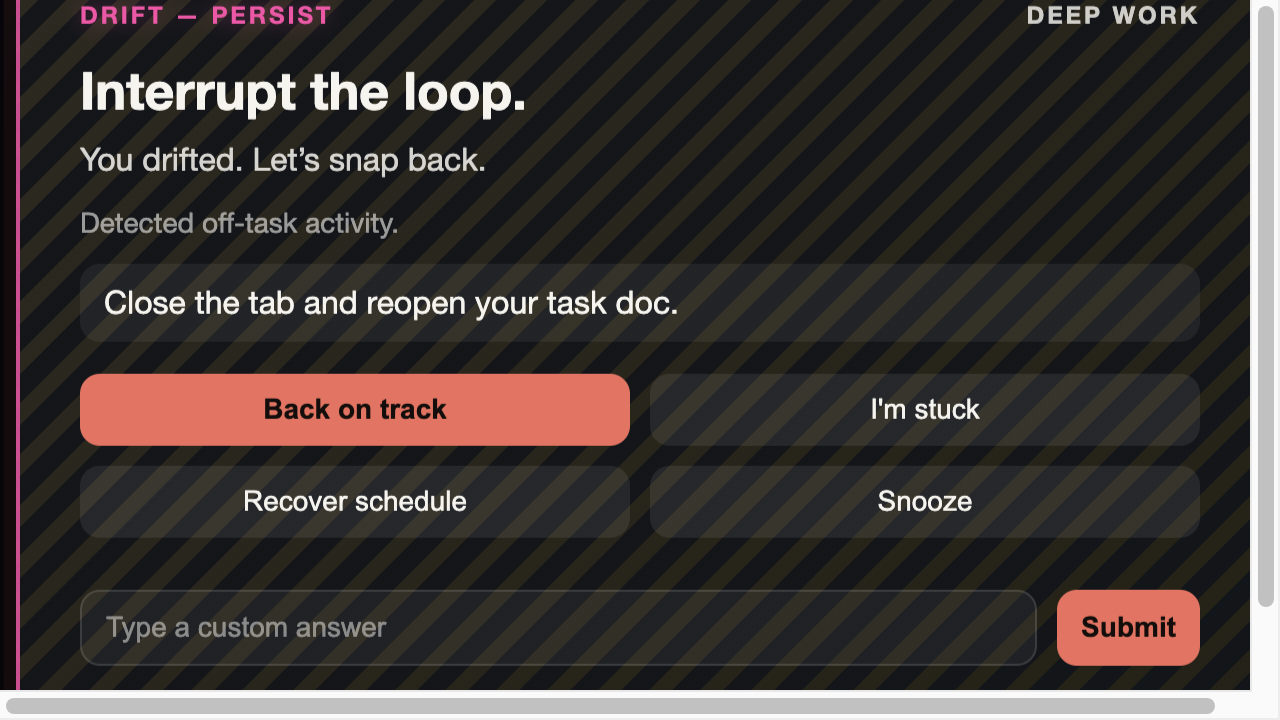
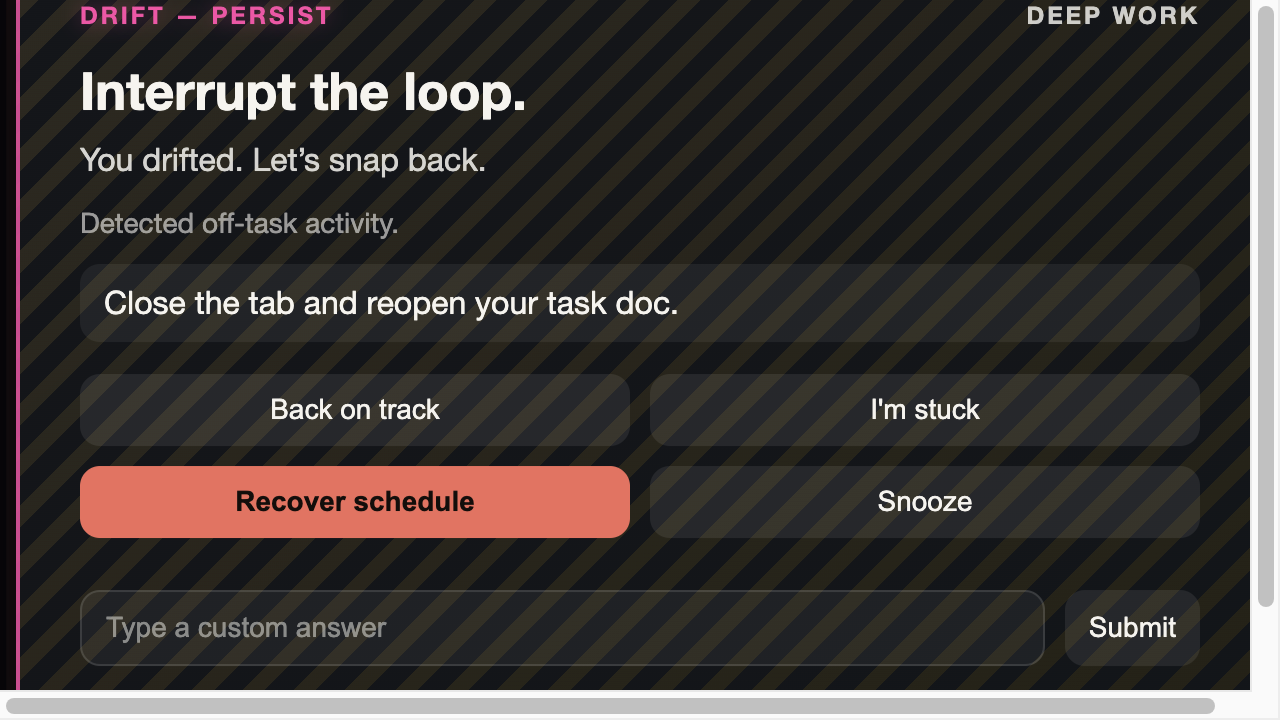
Overlay: make Recover primary on DRIFT_PERSIST

diff --git a/overlay/overlay-utils.test.js b/overlay/overlay-utils.test.js
@@ -8,7 +8,8 @@ const {
   normalizeEventType,
   getPreferredInitialFocus,
   getPrimaryEnterAction,
-  getEnterHintText
+  getEnterHintText,
+  getPrimaryButtonId
 } = require("./overlay-utils");
 
 test("isTextInputTarget: recognizes common typing targets", () => {
@@ -93,4 +94,11 @@ test("getPrimaryEnterAction: default maps Enter to back_on_track", () => {
 test("getEnterHintText: aligns hint with mode/event", () => {
   assert.equal(getEnterHintText({ eventType: "DRIFT_PERSIST" }), "Enter: Recover schedule");
   assert.equal(getEnterHintText({ eventType: "DRIFT", mode: "align" }), "Enter: Submit");
+});
+
+test("getPrimaryButtonId: aligns primary styling with mode/event", () => {
+  assert.equal(getPrimaryButtonId({ eventType: "DRIFT", mode: "align" }), "alignSubmit");
+  assert.equal(getPrimaryButtonId({ eventType: "DRIFT_PERSIST" }), "recoverBtn");
+  assert.equal(getPrimaryButtonId({ eventType: "drift_persist" }), "recoverBtn");
+  assert.equal(getPrimaryButtonId({ eventType: "DRIFT" }), "backBtn");
 });

diff --git a/overlay/overlay.js b/overlay/overlay.js
@@ -62,6 +62,19 @@ function updateEnterHint() {
   enterHint.textContent = text;
 }
 
+function applyPrimaryButtonStyle() {
+  const mode = overlay.dataset.mode || "";
+  const eventType = overlay.dataset.eventType || "";
+  const preferred = window.overlayUtils?.getPrimaryButtonId?.({ eventType, mode }) || "backBtn";
+
+  // Clear existing primary styles first.
+  [backBtn, recoverBtn, alignSubmit].forEach((el) => el?.classList?.remove("primary"));
+
+  const el =
+    preferred === "recoverBtn" ? recoverBtn : preferred === "alignSubmit" ? alignSubmit : backBtn;
+  el?.classList?.add("primary");
+}
+
 function resetSnooze() {
   snooze.classList.add("hidden");
 }
@@ -118,6 +131,7 @@ function showOverlay(payload) {
     overlay.dataset.mode = "";
   }
   updateEnterHint();
+  applyPrimaryButtonStyle();
   setText(blockName, payload.block_name || "");
   setText(headline, payload.headline || "Reset.");
   setText(humanLine, payload.human_line || "");

diff --git a/overlay/overlay-utils.js b/overlay/overlay-utils.js
@@ -71,6 +71,15 @@
     return "Enter: Back on track";
   }
 
+  // Decide which button should be visually primary.
+  // Returns one of: "alignSubmit" | "recoverBtn" | "backBtn".
+  function getPrimaryButtonId({ eventType, mode } = {}) {
+    const t = normalizeEventType(eventType);
+    if (mode === "align") return "alignSubmit";
+    if (t === "DRIFT_PERSIST") return "recoverBtn";
+    return "backBtn";
+  }
+
   return {
     isTextInputTarget,
     isInteractiveTarget,
@@ -78,6 +87,7 @@
     normalizeEventType,
     getPreferredInitialFocus,
     getPrimaryEnterAction,
-    getEnterHintText
+    getEnterHintText,
+    getPrimaryButtonId
   };
 });
